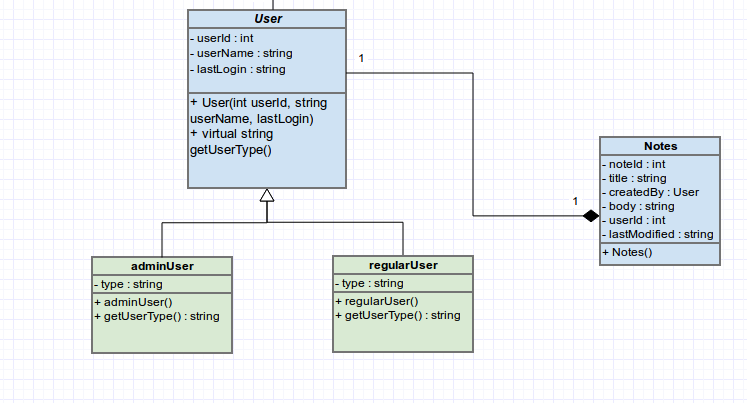
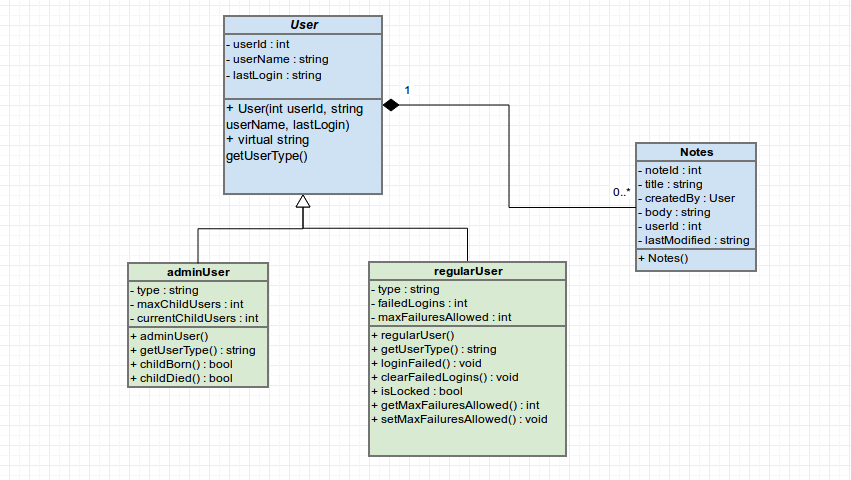
Developed new model structure

diff --git a/pp4/model/Users/regularUser.cpp b/pp4/model/Users/regularUser.cpp
@@ -8,5 +8,27 @@ std::string regularUser::getUserType() {
     return regularUser::type;
 }
 
-regularUser::regularUser(int userId, const std::string &userName, const User &createdBy) : User(userId, userName),
+regularUser::regularUser(int userId, const std::string &userName,const std::string &lastLogin, const User &createdBy) : User(userId, userName, lastLogin),
                                                                                            createdBy(createdBy) {}
+
+int regularUser::getMaxFailuresAllowed() const {
+    return maxFailuresAllowed;
+}
+
+void regularUser::setMaxFailuresAllowed(int maxFailuresAllowed) {
+    regularUser::maxFailuresAllowed = maxFailuresAllowed;
+}
+
+void regularUser::loginFailed() {
+    regularUser::failedLogins++;
+}
+
+bool regularUser::isLocked() {
+    return regularUser::maxFailuresAllowed <= regularUser::failedLogins;
+}
+
+void regularUser::clearFailedLogins() {
+    regularUser::failedLogins = 0;
+}
+
+

diff --git a/pp4/model/Users/adminUser.cpp b/pp4/model/Users/adminUser.cpp
@@ -4,8 +4,26 @@
 
 #include "adminUser.h"
 
-adminUser::adminUser(int userId, const std::string &userName) : User(userId, userName) {}
+adminUser::adminUser(int userId, const std::string &userName, const std::string &lastLogin) : User(userId, userName, lastLogin) {}
 
 std::string adminUser::getUserType() {
     return adminUser::type;
+}
+
+int adminUser::getMaxChildUsers() const {
+    return maxChildUsers;
+}
+
+void adminUser::setMaxChildUsers(int maxChildUsers) {
+    adminUser::maxChildUsers = maxChildUsers;
+}
+
+bool adminUser::childBorn() {
+    adminUser::currentChildUsers++;
+    return maxChildUsers <= currentChildUsers;
+}
+
+bool adminUser::childDied() {
+    adminUser::currentChildUsers--;
+    return currentChildUsers >= 0;
 }

diff --git a/pp4/model/Users/User/User.cpp b/pp4/model/Users/User/User.cpp
@@ -12,6 +12,22 @@ std::string User::getUserType() {
     return std::string("No type");
 }
 
+void User::loginFailed() {
+
+}
+
+bool User::isLocked() {
+    return false;
+}
+
+int User::getMaxFailuresAllowed() const {
+    return 99999;
+}
+
+void User::setMaxFailuresAllowed(int maxFailuresAllowed) {
+
+}
+
 std::string User::getTimeStamp() {
     time_t rawtime;
     struct tm * timeinfo;
@@ -24,4 +40,24 @@ std::string User::getTimeStamp() {
     std::string str(buffer);
 
     return str;
+}
+
+void User::clearFailedLogins() {
+
+}
+
+int User::getMaxChildUsers() const {
+    return 0;
+}
+
+void User::setMaxChildUsers(int) {
+
+}
+
+bool User::childBorn() {
+    return false;
+}
+
+bool User::childDied() {
+    return false;
 }

diff --git a/pp4/model/Users/regularUser.h b/pp4/model/Users/regularUser.h
@@ -12,10 +12,22 @@ class regularUser : public User {
 protected:
     std::string type = "regular";
     User createdBy;
+    int failedLogins, maxFailuresAllowed;
 public:
-    regularUser(int userId, const std::string &userName, const User &createdBy);
+    regularUser(int userId, const std::string &userName, const std::string &lastLogin, const User &createdBy);
 
     virtual std::string getUserType() override;
+
+    virtual void loginFailed();
+
+    virtual void clearFailedLogins() override;
+
+    virtual bool isLocked() override;
+
+    virtual int getMaxFailuresAllowed() const;
+
+    virtual void setMaxFailuresAllowed(int maxFailuresAllowed);
+
 };
 
 

diff --git a/pp4/model/Users/adminUser.h b/pp4/model/Users/adminUser.h
@@ -11,10 +11,20 @@
 class adminUser : public User {
 protected:
     std::string type = "admin";
+    int maxChildUsers, currentChildUsers;
 public:
-    adminUser(int userId, const std::string &userName);
+    adminUser(int userId, const std::string &userName, const std::string &lastLogin);
 
     virtual std::string getUserType() override;
+
+    virtual int getMaxChildUsers() const;
+
+    virtual void setMaxChildUsers(int maxChildUsers);
+
+    virtual bool childBorn() override;
+
+    virtual bool childDied() override;
+
 
 };
 

diff --git a/pp4/model/Users/User/User.h b/pp4/model/Users/User/User.h
@@ -17,6 +17,24 @@ protected:
 public:
     User(int userId, const std::string &userName, const std::string &lastLogin);
     virtual std::string getUserType();
+
+    virtual void loginFailed();
+
+    virtual void clearFailedLogins();
+
+    virtual bool isLocked();
+
+    virtual int getMaxFailuresAllowed() const;
+
+    virtual void setMaxFailuresAllowed(int);
+
+    virtual int getMaxChildUsers() const;
+
+    virtual void setMaxChildUsers(int);
+
+    virtual bool childBorn();
+
+    virtual bool childDied();
 };
 
 

diff --git a/pp4/model/Dao.h b/pp4/model/Dao.h
@@ -1,0 +1,20 @@
+//
+// Created by rchowda on 11/18/16.
+//
+
+#ifndef PP4_DAO_H
+#define PP4_DAO_H
+
+
+#include <string>
+
+class Dao {
+
+public:
+    bool canTrust(std::string userName, std::string password);
+
+    
+};
+
+
+#endif //PP4_DAO_H

diff --git a/pp4/model/Dao.cpp b/pp4/model/Dao.cpp
@@ -1,0 +1,5 @@
+//
+// Created by rchowda on 11/18/16.
+//
+
+#include "Dao.h"
